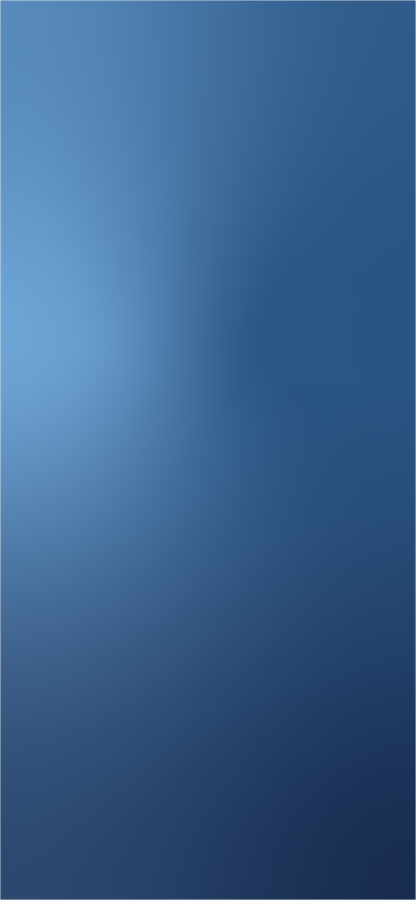
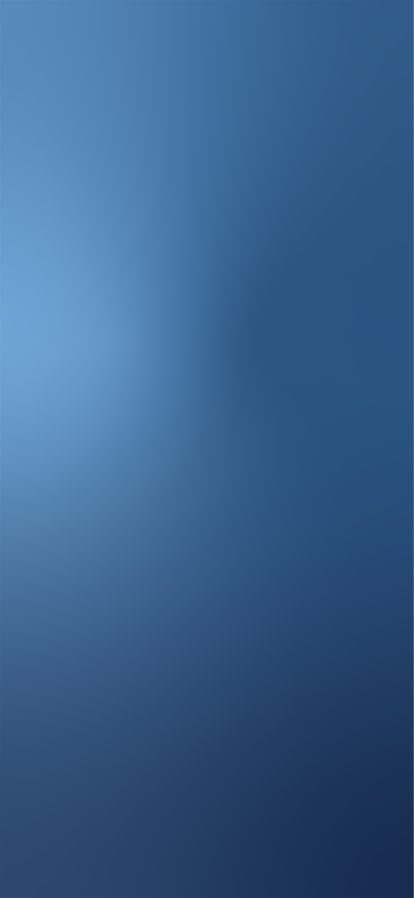
Edit theme images and implement in lotus screen

Changed region(s): [[0.0, 0.0, 1.0, 1.0], [0.0, 0.0, 0.029, 0.0312]]

diff --git a/lib/screens/lotus/lotus.dart b/lib/screens/lotus/lotus.dart
@@ -8,7 +8,6 @@ import 'package:junto_beta_mobile/screens/collective/collective.dart';
 import 'package:junto_beta_mobile/screens/create/create.dart';
 import 'package:junto_beta_mobile/screens/groups/groups.dart';
 import 'package:junto_beta_mobile/models/models.dart';
-import 'package:junto_beta_mobile/screens/groups/groups_actions/packs/pack_open/pack_open.dart';
 import 'package:shared_preferences/shared_preferences.dart';
 
 class JuntoLotus extends StatefulWidget {
@@ -42,6 +41,7 @@ class JuntoLotusState extends State<JuntoLotus> {
 
   String _userAddress;
   UserData _userProfile;
+  String _currentTheme;
 
   @override
   void initState() {
@@ -52,12 +52,17 @@ class JuntoLotusState extends State<JuntoLotus> {
 
   Future<void> getUserInformation() async {
     final SharedPreferences prefs = await SharedPreferences.getInstance();
-    final Map<String, dynamic> decodedUserData =
-        jsonDecode(prefs.getString('user_data'));
+    final Map<String, dynamic> decodedUserData = jsonDecode(
+      prefs.getString('user_data'),
+    );
 
+    print(
+      prefs.getString('current-theme'),
+    );
     setState(() {
       _userAddress = prefs.getString('user_id');
       _userProfile = UserData.fromMap(decodedUserData);
+      _currentTheme = prefs.getString('current-theme');
     });
   }
 
@@ -101,6 +106,25 @@ class JuntoLotusState extends State<JuntoLotus> {
     );
   }
 
+  Widget _setBackground() {
+    String imageAsset;
+
+    if (_currentTheme == 'light-indigo') {
+      imageAsset = 'assets/images/junto-mobile__themes--aqueous.png';
+    } else if (_currentTheme == 'light-royal') {
+      imageAsset = 'assets/images/junto-mobile__themes--royal.png';
+    } else if (_currentTheme == 'night-indigo') {
+      imageAsset = 'assets/images/junto-mobile__themes--night.png';
+    } else {
+      imageAsset = 'assets/images/junto-mobile__themes--aqueous.png';
+    }
+
+    return Image.asset(
+      imageAsset,
+      fit: BoxFit.cover,
+    );
+  }
+
   @override
   Widget build(BuildContext context) {
     return Scaffold(
@@ -108,17 +132,7 @@ class JuntoLotusState extends State<JuntoLotus> {
         Container(
           height: MediaQuery.of(context).size.height,
           width: MediaQuery.of(context).size.width,
-          decoration: BoxDecoration(
-            gradient: LinearGradient(
-              begin: Alignment.bottomLeft,
-              end: Alignment.topRight,
-              stops: const <double>[0.2, 0.9],
-              colors: <Color>[
-                Theme.of(context).colorScheme.secondaryVariant,
-                Theme.of(context).colorScheme.primaryVariant
-              ],
-            ),
-          ),
+          child: _setBackground(),
         ),
         Container(
           height: MediaQuery.of(context).size.height,
